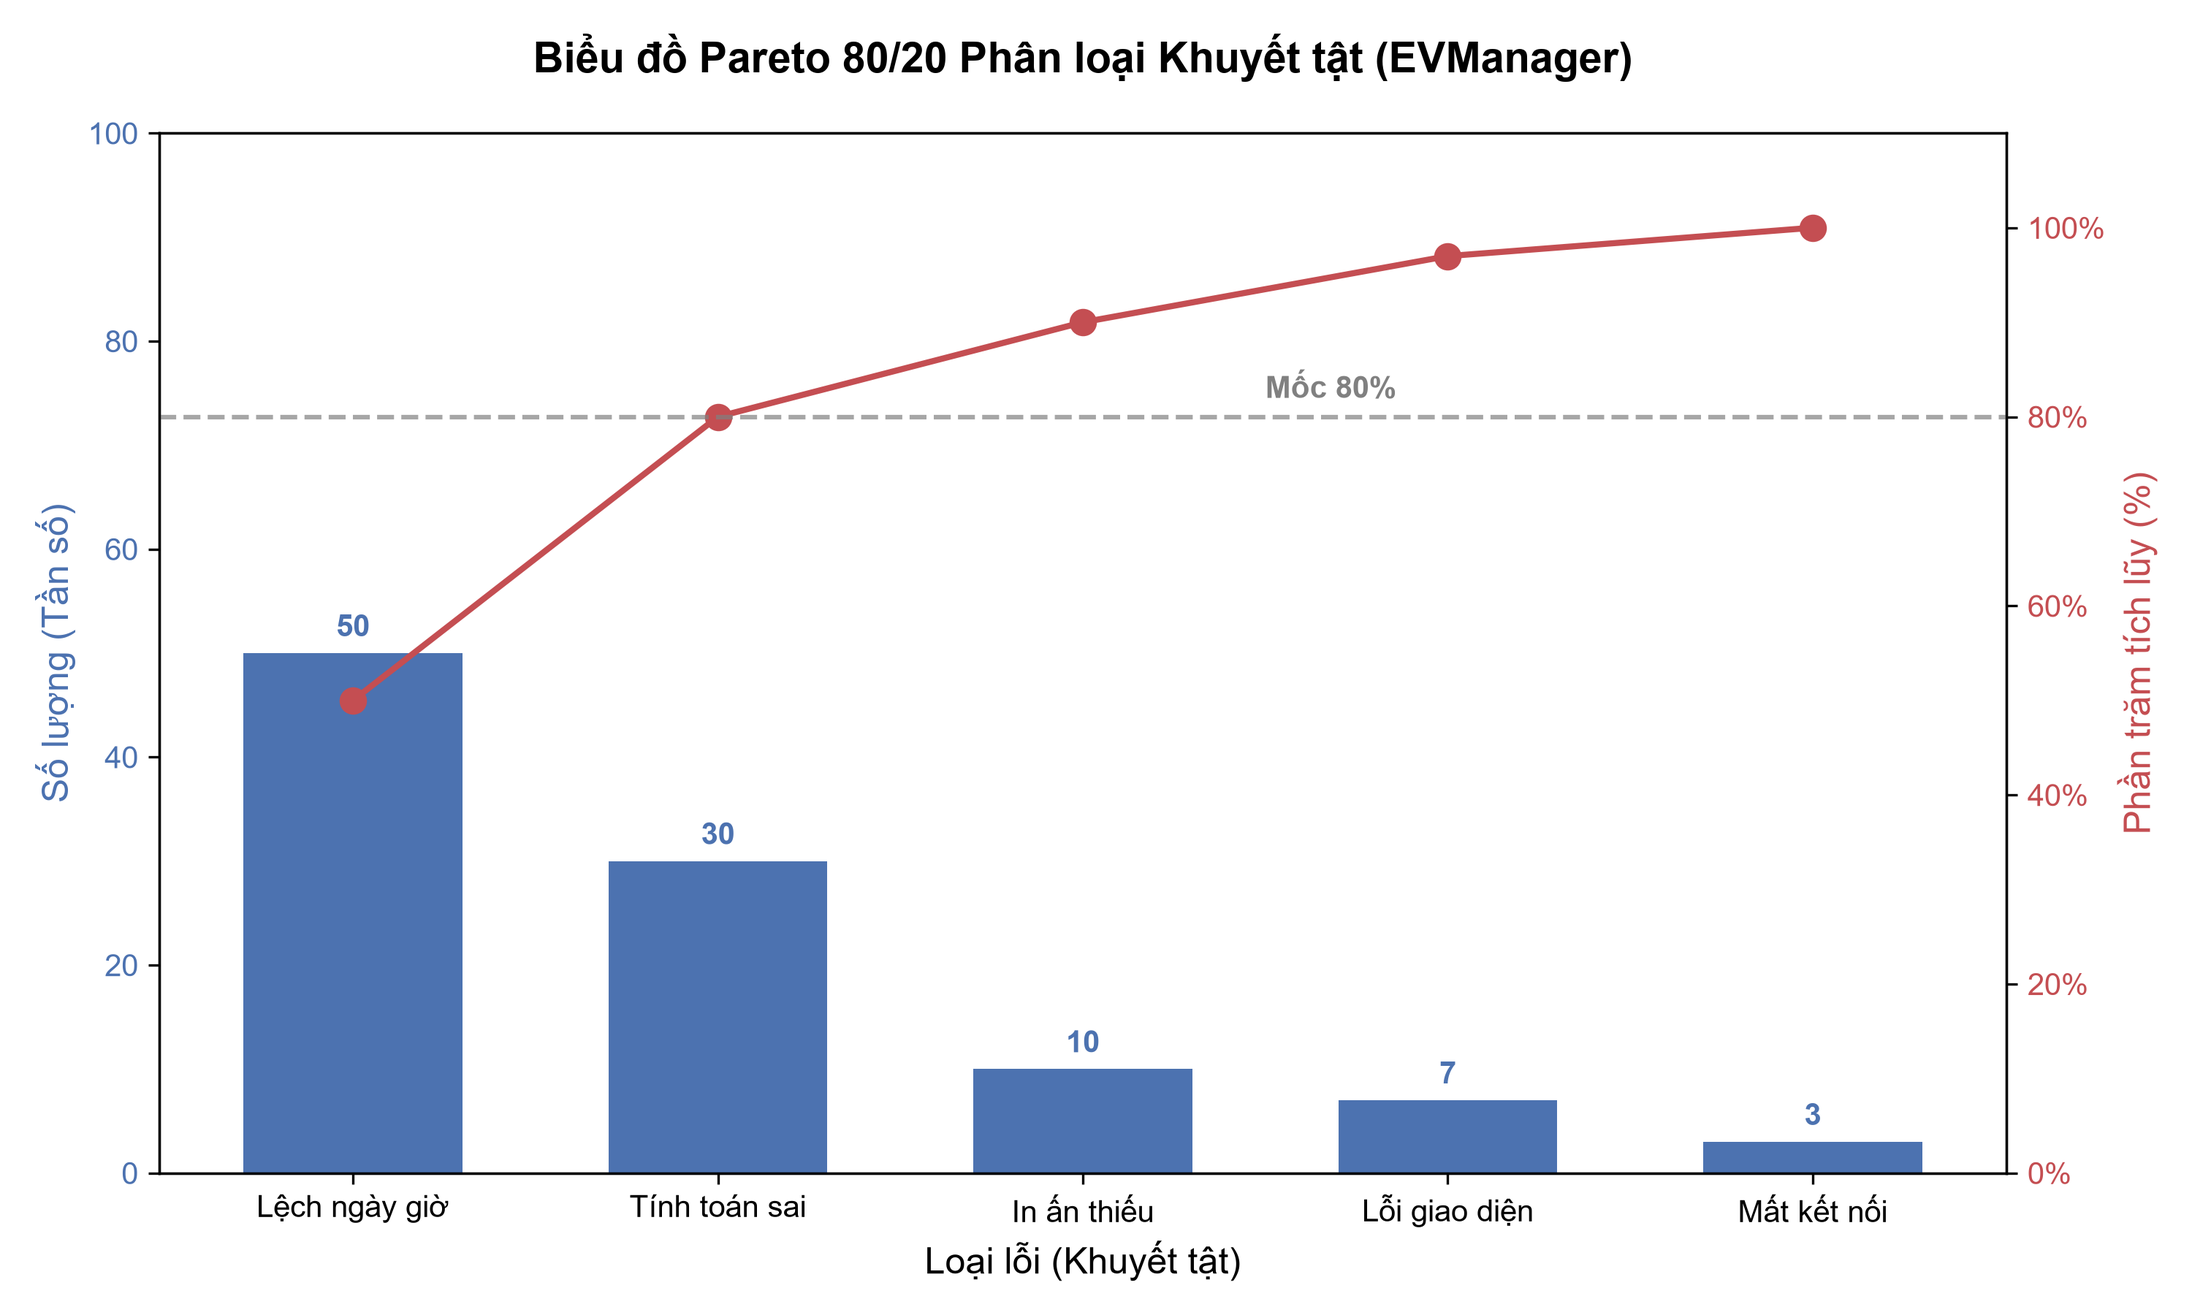
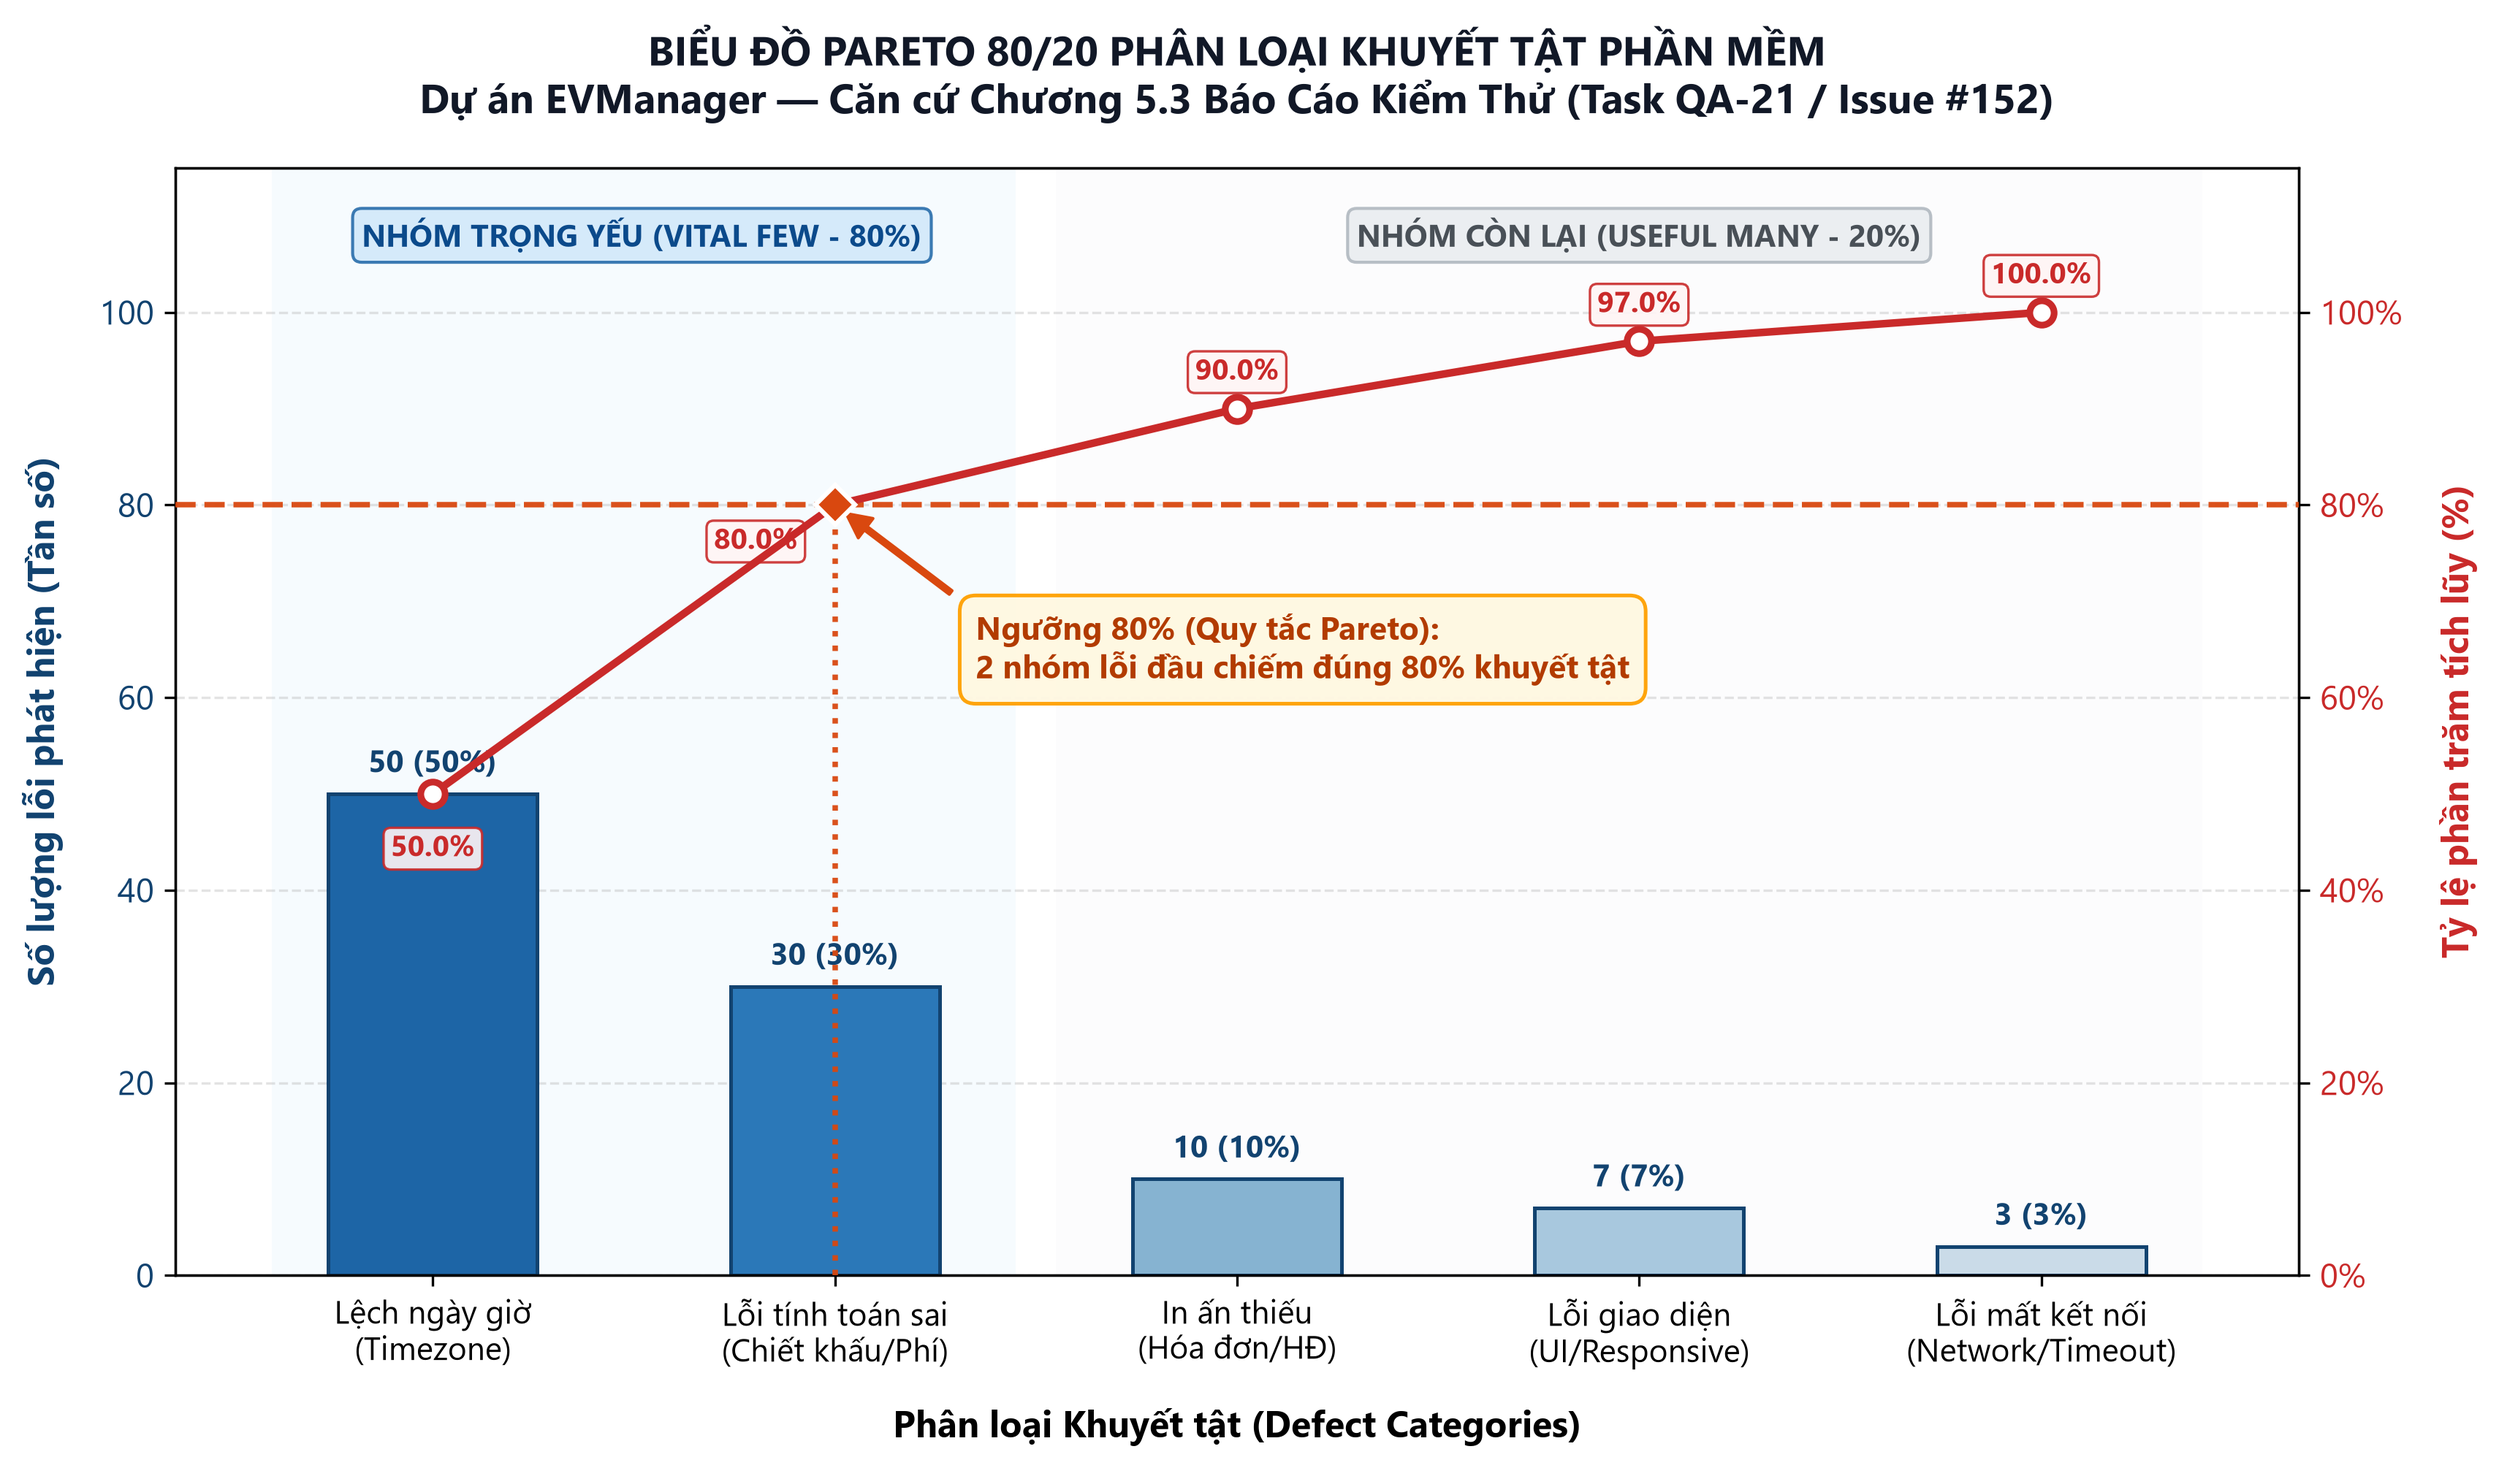
docs(testing): refine pareto chart visual styling and 300 DPI resolution

diff --git a/docs/testing/plot_pareto.py b/docs/testing/plot_pareto.py
@@ -1,56 +1,114 @@
 import matplotlib.pyplot as plt
 from matplotlib.ticker import PercentFormatter
-import sys
-import os
+import numpy as np
 
-# Thiết lập font hỗ trợ tiếng Việt nếu cần (chọn font mặc định)
-plt.rcParams['font.sans-serif'] = ['Arial', 'Tahoma', 'DejaVu Sans', 'sans-serif']
+# Thiết lập font chữ tiếng Việt sắc nét và không bị lỗi unicode minus
+plt.rcParams['font.sans-serif'] = ['Segoe UI', 'Arial', 'Tahoma', 'DejaVu Sans']
+plt.rcParams['axes.unicode_minus'] = False
 
-# Dữ liệu
-labels = ['Lệch ngày giờ', 'Tính toán sai', 'In ấn thiếu', 'Lỗi giao diện', 'Mất kết nối']
+# 1. Số liệu thống kê lỗi phát sinh
+categories = [
+    'Lệch ngày giờ\n(Timezone)', 
+    'Lỗi tính toán sai\n(Chiết khấu/Phí)', 
+    'In ấn thiếu\n(Hóa đơn/HĐ)', 
+    'Lỗi giao diện\n(UI/Responsive)', 
+    'Lỗi mất kết nối\n(Network/Timeout)'
+]
 counts = [50, 30, 10, 7, 3]
+total_defects = sum(counts)
 
-# Tính phần trăm tích lũy
-total = sum(counts)
-cum_counts = []
-c = 0
-for count in counts:
-    c += count
-    cum_counts.append(c / total * 100)
+# Tính % thành phần và % tích lũy
+percentages = [(c / total_defects) * 100 for c in counts]
+cum_percentages = np.cumsum(percentages)
 
-fig, ax1 = plt.subplots(figsize=(10, 6))
+# 2. Khởi tạo biểu đồ với tỷ lệ cân đối chuẩn báo cáo
+fig, ax1 = plt.subplots(figsize=(11.5, 6.8), dpi=300)
 
-# Biểu đồ cột
-color = '#4C72B0'
-ax1.set_xlabel('Loại lỗi (Khuyết tật)', fontsize=12)
-ax1.set_ylabel('Số lượng (Tần số)', color=color, fontsize=12)
-bars = ax1.bar(labels, counts, color=color, width=0.6)
-ax1.tick_params(axis='y', labelcolor=color)
-ax1.set_ylim(0, 100)
+# Bảng màu phân biệt trực quan giữa Vital Few và Useful Many
+bar_colors = ['#1d65a6', '#2b78b8', '#86b3d1', '#a8c8de', '#cadbe8']
+curve_color = '#c92a2a'
+threshold_color = '#d9480f'
 
-# Thêm số lượng trên cột
-for bar in bars:
-    yval = bar.get_height()
-    ax1.text(bar.get_x() + bar.get_width()/2, yval + 1, yval, ha='center', va='bottom', color=color, fontweight='bold')
+# 3. Vẽ biểu đồ cột (Tần số xuất hiện lỗi)
+x_pos = np.arange(len(categories))
+bars = ax1.bar(x_pos, counts, color=bar_colors, edgecolor='#124370', linewidth=1.2, width=0.52, zorder=2)
 
-# Đường cong phần trăm tích lũy
+ax1.set_xlabel('Phân loại Khuyết tật (Defect Categories)', fontsize=12, fontweight='bold', labelpad=12)
+ax1.set_ylabel('Số lượng lỗi phát hiện (Tần số)', fontsize=12, fontweight='bold', color='#124370', labelpad=12)
+ax1.tick_params(axis='y', labelcolor='#124370', labelsize=11)
+ax1.tick_params(axis='x', labelsize=10.5)
+ax1.set_xticks(x_pos)
+ax1.set_xticklabels(categories)
+ax1.set_ylim(0, 115)
+ax1.grid(axis='y', linestyle='--', alpha=0.35, zorder=1)
+
+# Ghi chú số lượng lỗi và % thành phần trên đỉnh cột
+for bar, count, pct in zip(bars, counts, percentages):
+    height = bar.get_height()
+    ax1.annotate(f'{count} ({pct:.0f}%)',
+                 xy=(bar.get_x() + bar.get_width() / 2, height),
+                 xytext=(0, 5), textcoords="offset points",
+                 ha='center', va='bottom', fontsize=10, fontweight='bold', color='#124370')
+
+# 4. Trục thứ hai cho Đường cong phần trăm tích lũy
 ax2 = ax1.twinx()
-color = '#C44E52'
-ax2.set_ylabel('Phần trăm tích lũy (%)', color=color, fontsize=12)
-ax2.plot(labels, cum_counts, color=color, marker='o', ms=8, linewidth=2)
-ax2.tick_params(axis='y', labelcolor=color)
-ax2.yaxis.set_major_formatter(PercentFormatter())
-ax2.set_ylim(0, 110)
+ax2.set_ylabel('Tỷ lệ phần trăm tích lũy (%)', fontsize=12, fontweight='bold', color=curve_color, labelpad=12)
+line = ax2.plot(x_pos, cum_percentages, color=curve_color, marker='o', markersize=8,
+                markerfacecolor='white', markeredgewidth=2.2, markeredgecolor=curve_color,
+                linewidth=2.5, zorder=4, label='Tỷ lệ tích lũy (%)')
+ax2.tick_params(axis='y', labelcolor=curve_color, labelsize=11)
+ax2.yaxis.set_major_formatter(PercentFormatter(xmax=100))
+ax2.set_ylim(0, 115)
 
-# Vẽ đường nét đứt tại mốc 80%
-ax2.axhline(80, color='gray', linestyle='dashed', alpha=0.7)
-ax2.text(2.5, 82, 'Mốc 80%', color='gray', fontweight='bold')
+# Ghi chú giá trị % tích lũy tại mỗi điểm nút (tuyệt đối không va chạm nhãn cột)
+offsets = [
+    (0, -18),   # Điểm 1 (50.0%): đặt phía dưới điểm tròn (trong thân cột)
+    (-26, -12), # Điểm 2 (80.0%): phía dưới bên trái điểm cắt 80%
+    (0, 12),    # Điểm 3 (90.0%): phía trên điểm tròn
+    (0, 12),    # Điểm 4 (97.0%): phía trên điểm tròn
+    (0, 12)     # Điểm 5 (100.0%): phía trên điểm tròn
+]
 
-# Tiêu đề biểu đồ
-plt.title('Biểu đồ Pareto 80/20 Phân loại Khuyết tật (EVManager)', fontsize=14, fontweight='bold', pad=20)
+for i, (cum_pct, (ox, oy)) in enumerate(zip(cum_percentages, offsets)):
+    ax2.annotate(f'{cum_pct:.1f}%',
+                 xy=(x_pos[i], cum_pct),
+                 xytext=(ox, oy), textcoords="offset points",
+                 ha='center', va='center', fontsize=9.5, fontweight='bold', color=curve_color,
+                 bbox=dict(boxstyle="round,pad=0.25", facecolor="#fff5f5", edgecolor=curve_color, alpha=0.9, linewidth=0.8))
+
+# 5. Đường tham chiếu Ngưỡng Pareto 80% (mốc quan trọng nhất)
+ax2.axhline(80, color=threshold_color, linestyle='--', linewidth=1.8, zorder=3, alpha=0.95)
+ax2.axvline(1, ymin=0, ymax=80/115, color=threshold_color, linestyle=':', linewidth=1.8, zorder=3, alpha=0.95)
+
+# Đánh dấu điểm giao cắt 80% bằng hình thoi
+ax2.plot(1, 80, marker='D', markersize=9, markerfacecolor=threshold_color, markeredgecolor='white', markeredgewidth=1.5, zorder=5)
+
+# Callout Box giải thích quy tắc 80/20
+ax2.annotate('Ngưỡng 80% (Quy tắc Pareto):\n2 nhóm lỗi đầu chiếm đúng 80% khuyết tật',
+             xy=(1, 80), xytext=(1.35, 62),
+             arrowprops=dict(facecolor=threshold_color, edgecolor=threshold_color, width=1.5, headwidth=8, headlength=8, shrink=0.08),
+             fontsize=10.5, fontweight='bold', color='#b23b00',
+             bbox=dict(boxstyle="round,pad=0.5", facecolor="#fff8e1", edgecolor="#ffa000", linewidth=1.2, alpha=0.95))
+
+# 6. Nhãn phân vùng Vital Few (80%) vs Useful Many (20%) ở đỉnh biểu đồ thoáng mát
+ax1.axvspan(-0.4, 1.45, facecolor='#e8f4fd', alpha=0.35, zorder=0)
+ax1.text(0.52, 108, 'NHÓM TRỌNG YẾU (VITAL FEW - 80%)', ha='center', va='center',
+         fontsize=10, fontweight='bold', color='#0b4a8b',
+         bbox=dict(boxstyle="round,pad=0.3", facecolor="#d0e7fa", edgecolor="#1d65a6", alpha=0.85))
+
+ax1.axvspan(1.55, 4.4, facecolor='#f8f9fa', alpha=0.35, zorder=0)
+ax1.text(3.0, 108, 'NHÓM CÒN LẠI (USEFUL MANY - 20%)', ha='center', va='center',
+         fontsize=10, fontweight='bold', color='#495057',
+         bbox=dict(boxstyle="round,pad=0.3", facecolor="#e9ecef", edgecolor="#adb5bd", alpha=0.85))
+
+# 7. Tiêu đề chính
+plt.title('BIỂU ĐỒ PARETO 80/20 PHÂN LOẠI KHUYẾT TẬT PHẦN MỀM\n'
+          'Dự án EVManager — Căn cứ Chương 5.3 Báo Cáo Kiểm Thử (Task QA-21 / Issue #152)',
+          fontsize=13.5, fontweight='bold', pad=18, color='#111827')
+
 fig.tight_layout()
 
-# Lưu biểu đồ
-output_path = r'd:\EVManager\docs\testing\pareto-defects-chart.png'
-plt.savefig(output_path, dpi=300)
-print(f"Chart saved successfully at {output_path}")
+# 8. Xuất file ảnh độ phân giải cao 300 DPI
+output_png = r'd:\EVManager\docs\testing\pareto-defects-chart.png'
+plt.savefig(output_png, dpi=300, bbox_inches='tight')
+print(f"Bieu do Pareto da duoc xuat thanh cong tai: {output_png}")
